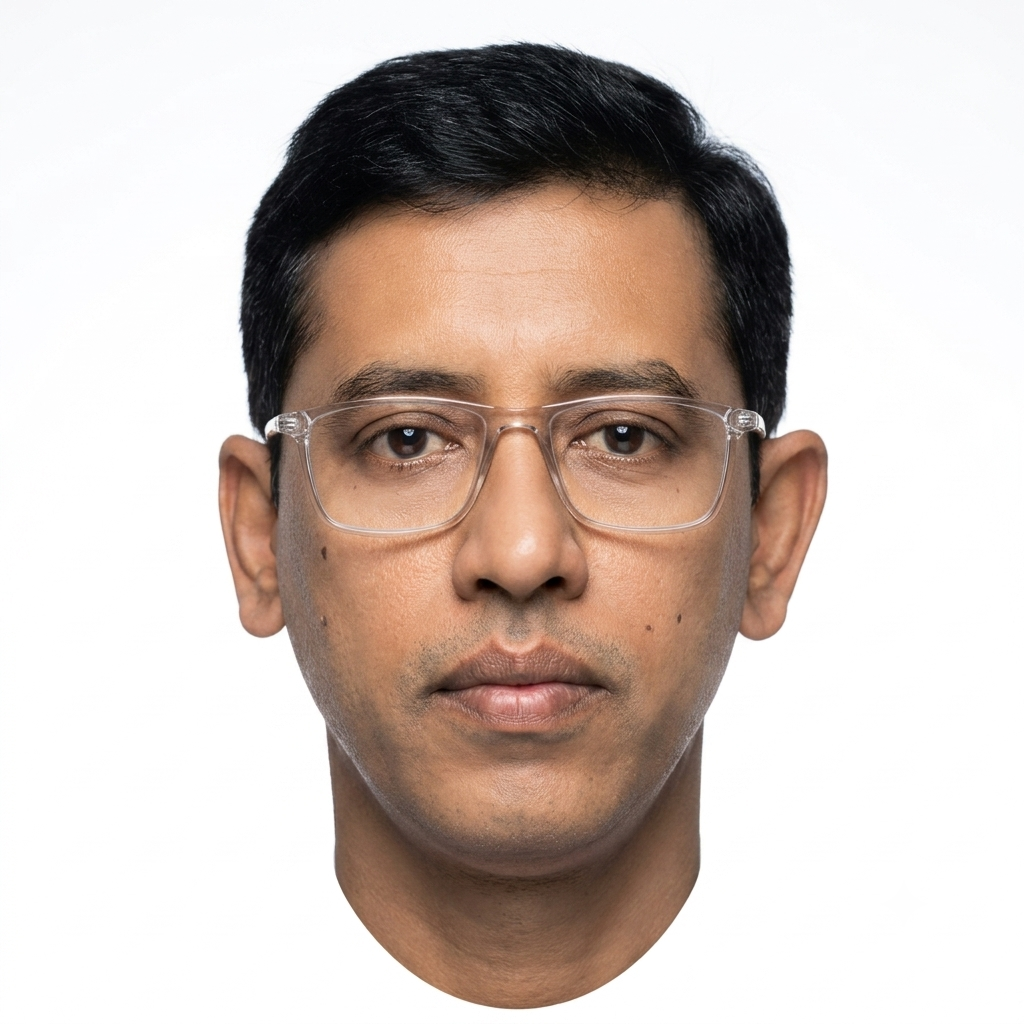
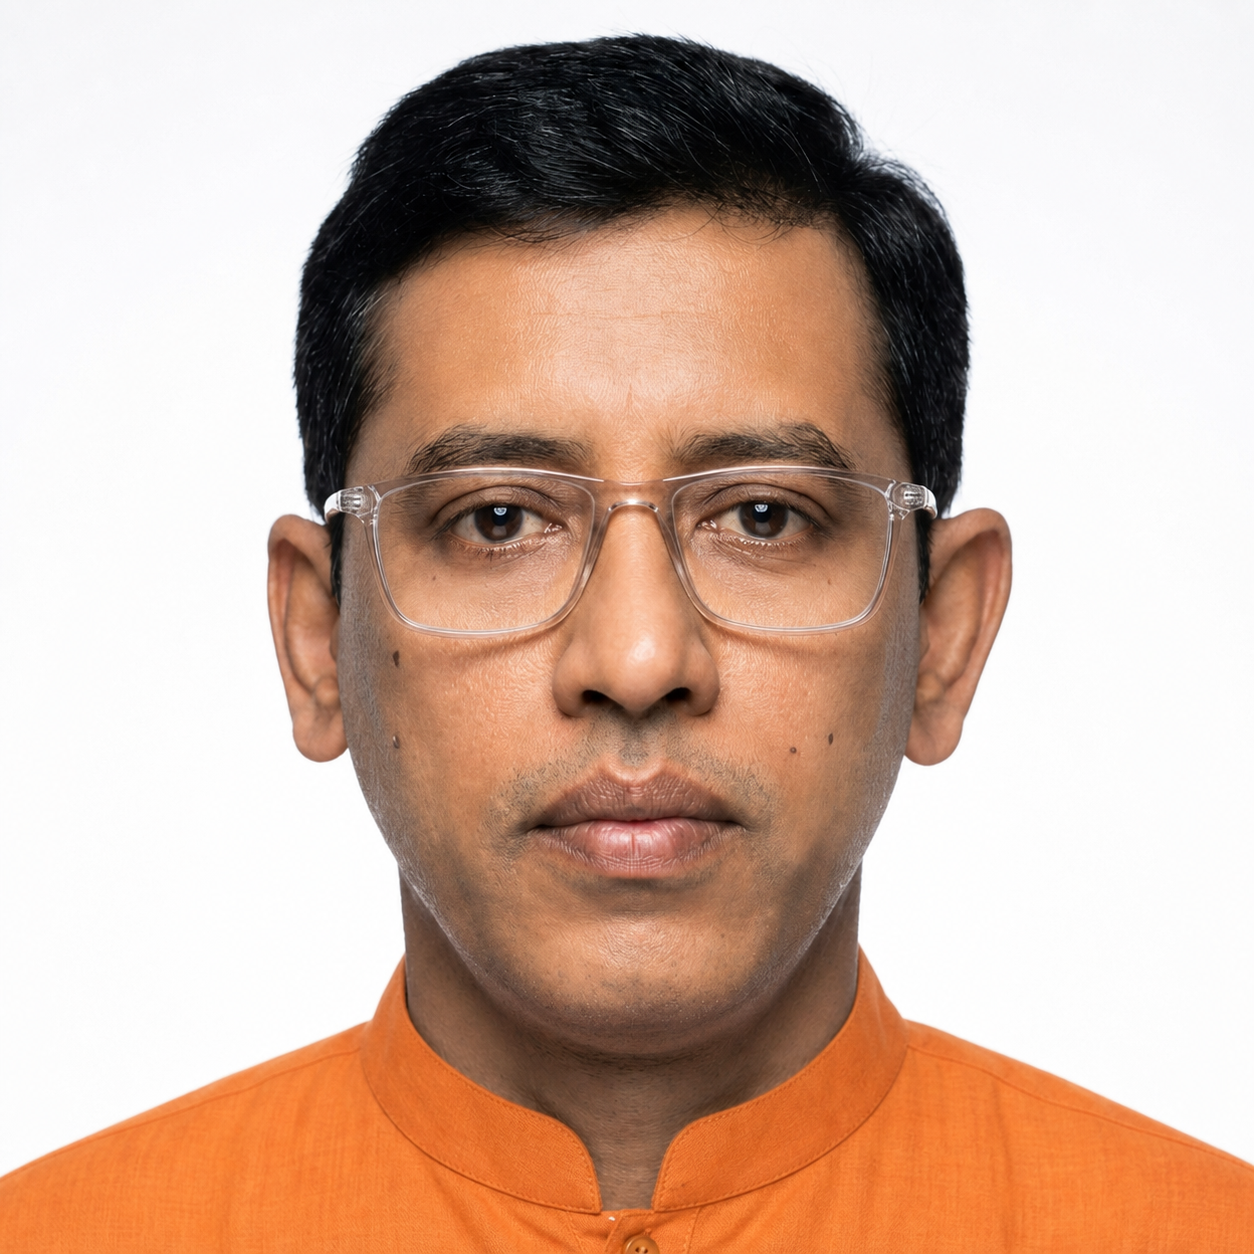
Refine registration placement and teacher portrait

Changed region(s): [[0.0, 0.0, 1.0, 1.0], [0.6875, 0.625, 0.7188, 0.6875], [0.2812, 0.625, 0.3125, 0.6875]]

diff --git a/index.html b/index.html
@@ -54,7 +54,7 @@
         <div class="section-shell hero-layout">
           <div class="hero-copy">
             <p class="eyebrow">Certified TM instruction in Kolkata</p>
-            <h1>Experience Deep Inner Peace &amp; Restful Alertness in Kolkata</h1>
+            <h1>Experience Deep Inner Peace &amp; Restful Alertness</h1>
             <p class="hero-subhead">
               Learn Transcendental Meditation - an effortless, evidence-based technique practiced
               20 minutes twice daily.
@@ -127,7 +127,104 @@
             <p class="event-empty">Loading upcoming TM Kolkata sessions...</p>
           </div>
 
-          <div class="registration-panel">
+        </div>
+      </section>
+
+      <section id="trust" class="section-block">
+        <div class="section-shell trust-layout">
+          <article class="teacher-panel">
+            <img src="debasish_sarkar_tm.png" alt="Portrait of Debasish Sarkar">
+            <div>
+              <p class="eyebrow">Certified local support</p>
+              <h2>Debasish Sarkar</h2>
+              <p>Certified Teacher of Transcendental Meditation</p>
+              <span>Certified TM Teacher</span>
+            </div>
+          </article>
+          <div class="research-panel">
+            <p class="eyebrow">Trust &amp; Research</p>
+            <h2>Local guidance, global evidence.</h2>
+            <div class="research-grid">
+              <div>
+                <strong>700+</strong>
+                <span>published studies</span>
+              </div>
+              <div>
+                <strong>20 min</strong>
+                <span>twice daily practice</span>
+              </div>
+              <div>
+                <strong>1:1</strong>
+                <span>personal instruction</span>
+              </div>
+            </div>
+            <p>
+              TM is taught through personal instruction with follow-up support, helping new meditators
+              build correct practice from the beginning.
+            </p>
+          </div>
+        </div>
+      </section>
+
+      <section id="resources" class="section-block resource-band">
+        <div class="section-shell">
+          <div class="heading-row">
+            <div>
+              <p class="eyebrow">Testimonials &amp; Experiences</p>
+              <h2>Real experiences from TM meditators.</h2>
+            </div>
+            <a class="section-link" href="https://www.indiatm.org/" target="_blank" rel="noopener">India TM</a>
+          </div>
+          <div class="testimonial-grid" aria-label="Experiences with Transcendental Meditation">
+            <article class="testimonial-card">
+              <p>
+                Transcendental Meditation has become so seamlessly integrated into my life that I
+                can't imagine where I would be without it. It has the power to spontaneously change
+                my mood when I'm anxious, and the clarity it gives me is unlike anything else.
+              </p>
+              <div class="testimonial-profile">
+                <img src="https://www.indiatm.org/admin/img/1768213483_image.jpg" alt="Sharanya Madhusudhan">
+                <div>
+                  <strong>Sharanya Madhusudhan</strong>
+                  <span>Student</span>
+                </div>
+              </div>
+            </article>
+            <article class="testimonial-card">
+              <p>
+                For the past 12 years, Transcendental Meditation has helped me live a more peaceful
+                and stress-free life. This simple practice has supported me through challenges and
+                helped me maintain balance between family and work.
+              </p>
+              <div class="testimonial-profile">
+                <img src="https://www.indiatm.org/admin/img/1768213395_image.jpg" alt="Rajeswari Manickkam">
+                <div>
+                  <strong>Rajeswari Manickkam</strong>
+                  <span>School Teacher</span>
+                </div>
+              </div>
+            </article>
+            <article class="testimonial-card">
+              <p>
+                With regular practice of Transcendental Meditation, I have begun to experience a
+                deeper connection with my inner self. The journey has brought calm, clarity, and
+                balance into my life.
+              </p>
+              <div class="testimonial-profile">
+                <img src="https://www.indiatm.org/admin/img/1768213802_image.jpg" alt="Suman Ashwin">
+                <div>
+                  <strong>Suman Ashwin</strong>
+                  <span>IT Professional</span>
+                </div>
+              </div>
+            </article>
+          </div>
+
+          <details id="registration-details" class="registration-panel">
+            <summary>
+              <span>Register for an intro talk</span>
+              <small>Expand the registration form</small>
+            </summary>
             <form id="registration" class="form-panel" novalidate>
               <h3>Register for an intro talk</h3>
               <div class="form-grid">
@@ -280,99 +377,7 @@
               <button class="button primary full-width" type="submit">Submit Registration</button>
               <p class="form-message" role="status" aria-live="polite"></p>
             </form>
-          </div>
-        </div>
-      </section>
-
-      <section id="trust" class="section-block">
-        <div class="section-shell trust-layout">
-          <article class="teacher-panel">
-            <img src="debasish_sarkar_tm.png" alt="Portrait of Debasish Sarkar">
-            <div>
-              <p class="eyebrow">Certified local support</p>
-              <h2>Debasish Sarkar</h2>
-              <p>Certified Teacher of Transcendental Meditation</p>
-              <span>Certified TM Teacher</span>
-            </div>
-          </article>
-          <div class="research-panel">
-            <p class="eyebrow">Trust &amp; Research</p>
-            <h2>Local guidance, global evidence.</h2>
-            <div class="research-grid">
-              <div>
-                <strong>700+</strong>
-                <span>published studies</span>
-              </div>
-              <div>
-                <strong>20 min</strong>
-                <span>twice daily practice</span>
-              </div>
-              <div>
-                <strong>1:1</strong>
-                <span>personal instruction</span>
-              </div>
-            </div>
-            <p>
-              TM is taught through personal instruction with follow-up support, helping new meditators
-              build correct practice from the beginning.
-            </p>
-          </div>
-        </div>
-      </section>
-
-      <section id="resources" class="section-block resource-band">
-        <div class="section-shell">
-          <div class="heading-row">
-            <div>
-              <p class="eyebrow">Testimonials &amp; Experiences</p>
-              <h2>Real experiences from TM meditators.</h2>
-            </div>
-            <a class="section-link" href="https://www.indiatm.org/" target="_blank" rel="noopener">India TM</a>
-          </div>
-          <div class="testimonial-grid" aria-label="Experiences with Transcendental Meditation">
-            <article class="testimonial-card">
-              <p>
-                Transcendental Meditation has become so seamlessly integrated into my life that I
-                can't imagine where I would be without it. It has the power to spontaneously change
-                my mood when I'm anxious, and the clarity it gives me is unlike anything else.
-              </p>
-              <div class="testimonial-profile">
-                <img src="https://www.indiatm.org/admin/img/1768213483_image.jpg" alt="Sharanya Madhusudhan">
-                <div>
-                  <strong>Sharanya Madhusudhan</strong>
-                  <span>Student</span>
-                </div>
-              </div>
-            </article>
-            <article class="testimonial-card">
-              <p>
-                For the past 12 years, Transcendental Meditation has helped me live a more peaceful
-                and stress-free life. This simple practice has supported me through challenges and
-                helped me maintain balance between family and work.
-              </p>
-              <div class="testimonial-profile">
-                <img src="https://www.indiatm.org/admin/img/1768213395_image.jpg" alt="Rajeswari Manickkam">
-                <div>
-                  <strong>Rajeswari Manickkam</strong>
-                  <span>School Teacher</span>
-                </div>
-              </div>
-            </article>
-            <article class="testimonial-card">
-              <p>
-                With regular practice of Transcendental Meditation, I have begun to experience a
-                deeper connection with my inner self. The journey has brought calm, clarity, and
-                balance into my life.
-              </p>
-              <div class="testimonial-profile">
-                <img src="https://www.indiatm.org/admin/img/1768213802_image.jpg" alt="Suman Ashwin">
-                <div>
-                  <strong>Suman Ashwin</strong>
-                  <span>IT Professional</span>
-                </div>
-              </div>
-            </article>
-          </div>
+          </details>
 
           <div class="heading-row blog-heading-row">
             <h2>Helpful reading</h2>

diff --git a/app.js b/app.js
@@ -10,6 +10,7 @@ const modal = document.querySelector("#question-modal");
 const openQuestionButtons = document.querySelectorAll("[data-open-question]");
 const closeModalButtons = document.querySelectorAll("[data-close-modal]");
 const registrationForm = document.querySelector("#registration");
+const registrationDetails = document.querySelector("#registration-details");
 const questionForm = document.querySelector("#question-form");
 const eventGrid = document.querySelector("#event-grid");
 const preferredDateSelect = registrationForm.elements.preferredDate;
@@ -220,6 +221,12 @@ function closeModal() {
   document.body.classList.remove("modal-open");
 }
 
+function openRegistrationForm() {
+  if (registrationDetails) {
+    registrationDetails.open = true;
+  }
+}
+
 navToggle.addEventListener("click", () => {
   const isOpen = siteNav.classList.toggle("is-open");
   navToggle.setAttribute("aria-expanded", String(isOpen));
@@ -234,6 +241,12 @@ siteNav.addEventListener("click", (event) => {
 
 openQuestionButtons.forEach((button) => button.addEventListener("click", openModal));
 closeModalButtons.forEach((button) => button.addEventListener("click", closeModal));
+
+document.querySelectorAll('a[href="#registration"]').forEach((link) => {
+  link.addEventListener("click", () => {
+    openRegistrationForm();
+  });
+});
 
 eventGrid.addEventListener("click", (event) => {
   const button = event.target.closest("[data-event-id]");
@@ -251,6 +264,7 @@ eventGrid.addEventListener("click", (event) => {
     });
     registrationForm.elements.cityArea.value = tmEvent.kolkata_region;
     preferredDateSelect.value = String(tmEvent.id);
+    openRegistrationForm();
     registrationForm.scrollIntoView({ behavior: "smooth", block: "center" });
     setTimeout(() => registrationForm.elements.fullName.focus(), 500);
   }

diff --git a/styles.css b/styles.css
@@ -442,7 +442,39 @@ details p {
 }
 
 .registration-panel {
+  margin-top: 28px;
   scroll-margin-top: 110px;
+}
+
+.registration-panel summary {
+  display: flex;
+  min-height: 72px;
+  align-items: center;
+  justify-content: space-between;
+  gap: 16px;
+  padding: 22px clamp(22px, 4vw, 34px);
+  background: linear-gradient(135deg, rgba(215, 240, 236, 0.78), rgba(255, 255, 255, 0.8));
+}
+
+.registration-panel summary span {
+  color: var(--slate);
+  font-size: clamp(1.1rem, 2vw, 1.35rem);
+  font-weight: 900;
+}
+
+.registration-panel summary small {
+  color: var(--teal-dark);
+  font-size: 0.86rem;
+  font-weight: 900;
+  text-transform: uppercase;
+}
+
+.registration-panel .form-panel {
+  border: 0;
+  border-radius: 0;
+  background: transparent;
+  box-shadow: none;
+  padding-top: 0;
 }
 
 .form-panel {
@@ -531,6 +563,10 @@ summary:focus-visible {
   margin: 14px 0 0;
   color: var(--teal-dark);
   font-weight: 800;
+}
+
+.registration-panel .form-message {
+  padding: 0;
 }
 
 .trust-layout {
